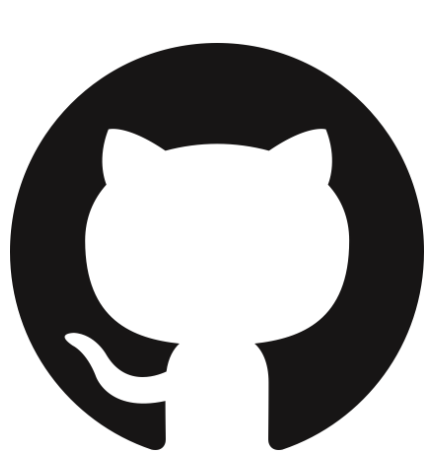
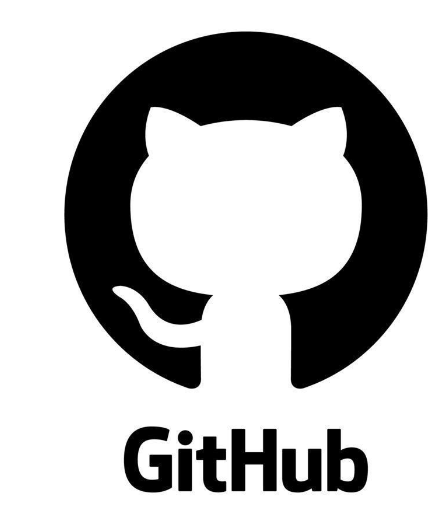
added bulma to JS page and homepage

diff --git a/jsInfo.html b/jsInfo.html
@@ -9,24 +9,57 @@
 <link rel="preconnect" href="https://fonts.gstatic.com" crossorigin>
 <link href="https://fonts.googleapis.com/css2?family=Poppins:ital,wght@0,100;0,200;0,300;0,400;0,500;0,600;0,700;0,800;0,900;1,100;1,200;1,300;1,400;1,500;1,600;1,700;1,800;1,900&display=swap" rel="stylesheet">
     <link rel="stylesheet" href="./assets/css/jsInfo.css">
+    <link rel="stylesheet" href="https://cdn.jsdelivr.net/npm/bulma@1.0.0/css/bulma-rtl.min.css">
     <title>Code Script Chum</title>
 </head>
 
 <body>
-    <div class="header">
-        <nav>
-            <h1>JavaScript<i class="fa-brands fa-js"></i></h1>
-            <ul>
-                <li><a href="#">Home</a></li>
-                <li><a href="#html"></a>HTML</li>
-                <li><a href="#css"></a>CSS</li>
-                <li><a href="#js"></a>JavaScript</li>
-
-            </ul>
-            <div class="gcse-search"></div>
-        </nav>
-    </div>
-    <section class="main">
+    <nav class="navbar is-warning" role="navigation" aria-label="main navigation">
+        <div class="navbar-brand">
+          <a class="navbar-item" href="">
+            <h1 class="title has-text-dark">JavaScript<i class="fa-brands fa-js"></i></h1>
+            
+          </a>
+      
+          
+        </div>
+      
+        <div id="navbarBasicExample" class="navbar-menu">
+          <div class="navbar-start">
+            
+                
+                <hr class="navbar-divider">
+                
+              </div>
+            </div>
+          </div>
+      
+          <div class="navbar-end">
+            <div class="navbar-item">
+                <a class="navbar-item has-background-warning">
+                    Home
+                  </a>
+            
+                  <a class="navbar-item has-background-warning">
+                    HTML
+                  </a>
+            
+                  
+                  <a class="navbar-item has-background-warning">
+                      CSS
+                  </a>
+            
+                    
+                  <a class="navbar-item has-background-warning">
+                        JavaScript
+                  </a>
+                  <div class="gcse-search"></div>
+              </div>
+            </div>
+          </div>
+        </div>
+      </nav>
+    <section class="main has-background-black has-text-white">
         <div class="subject">
             <h2>What is JavaScript</h2>
             <p id="define">JavaScript is a programming language that adds interactivity to your website. This happens in games, in the behavior of responses when buttons are pressed or with data entry on forms; with dynamic styling; with animation, etc. This article helps you get started with JavaScript and furthers your understanding of what is possible.
@@ -43,7 +76,7 @@
 
             
         </div>
-        <div class="resources">
+        <div class="resources has-background-black has-text-white">
             <h2>Resources</h2>
             <a id="codecademy" href="https://www.codecademy.com/catalog/language/javascript?g_network=g&g_productchannel=&g_adid=624951457597&g_locinterest=&g_keyword=javascript%20codecademy&g_acctid=243-039-7011&g_adtype=&g_keywordid=kwd-320553373671&g_ifcreative=&g_campaign=account&g_locphysical=9053011&g_adgroupid=128133969988&g_productid=&g_source={sourceid}&g_merchantid=&g_placement=&g_partition=&g_campaignid=1955172604&g_ifproduct=&utm_id=t_kwd-320553373671:ag_128133969988:cp_1955172604:n_g:d_c&utm_source=google&utm_medium=paid-search&utm_term=javascript%20codecademy&utm_campaign=US_Brand_Exact&utm_content=624951457597&g_adtype=search&g_acctid=243-039-7011&gad_source=1&gclid=CjwKCAjwoPOwBhAeEiwAJuXRh0FBEE7tAhJBHI1ho4i6YMIoSmxdvKVT4xJRQJPb-ZK9xknfXDbq5RoCjugQAvD_BwE" alt="codecademy">
                 <!-- <h3>Codecademy</h3> -->
@@ -51,7 +84,7 @@
             </a>
             <a id="github" href="https://github.com/topics/javascript" alt="github">
                 <!-- <h3>Github</h3> -->
-                
+                <img src="../code-script-chum/assets/images/github.png" alt="github">
             </a>
             <a id="mdn" href="https://developer.mozilla.org/en-US/docs/Web/JavaScript" alt="mdn-web-docs">
                 <!-- <h3>MDN Web Docs</h3> -->
@@ -63,10 +96,10 @@
             </a>
         </div> 
         <section id="examples">
-            <div class="banner">
+            <div class="banner has-background-black has-text-white">
                 <h3>Examples</h3>
             </div>
-            <div class="ex-container" >
+            <div class="ex-container has-background-black" >
                 <a class="js-robot" href="https://lab.reaal.me/jsrobot/#level=1&language=en" alt="js robot game"> <div>
                 <h4>JavaScript Robot</h4>
                 </div>

diff --git a/index.html b/index.html
@@ -7,25 +7,59 @@
     <link rel="preconnect" href="https://fonts.googleapis.com">
 <link href="https://fonts.googleapis.com/css2?family=Poppins:ital,wght@0,100;0,200;0,300;0,400;0,500;0,600;0,700;0,800;0,900;1,100;1,200;1,300;1,400;1,500;1,600;1,700;1,800;1,900&display=swap" rel="stylesheet">
     <link rel="stylesheet" href="./assets/css/index.css">
+    <link rel="stylesheet" href="https://cdn.jsdelivr.net/npm/bulma@1.0.0/css/bulma-rtl.min.css">
     <title>Code Script Chum</title>
 </head>
 
 <body>
-    <div class="header">
-        <nav>
-			<img src="assets/images/main-icon.png" alt="Main Icon"
+    <nav class="navbar is-success" role="navigation" aria-label="main navigation">
+        <div class="navbar-brand">
+          <a class="navbar-item" href="">
+            <img src="assets/images/main-icon.png" alt="Main Icon"
 				width="336" 
      			height="100">
             
-            <ul>
-                <li><a href="htmlInfo.html">HTML</a></li>
-                <li><a href="cssInfo.html">CSS</a></li>
-                <li><a href="jsInfo.html">JavaScript</a></li>
-            </ul>
-            <div class="gcse-search"></div>
-        </nav>
-    </div>
-    <section class="main">
+          </a>
+      
+          
+        </div>
+      
+        <div id="navbarBasicExample" class="navbar-menu">
+          <div class="navbar-start">
+            
+                
+                <hr class="navbar-divider">
+                
+              </div>
+            </div>
+          </div>
+      
+          <div class="navbar-end">
+            <div class="navbar-item">
+                <a class="navbar-item has-background-success">
+                    Home
+                  </a>
+            
+                  <a class="navbar-item has-background-success">
+                    HTML
+                  </a>
+            
+                  
+                  <a class="navbar-item has-background-success">
+                      CSS
+                  </a>
+            
+                    
+                  <a class="navbar-item has-background-success">
+                        JavaScript
+                  </a>
+                  <div class="gcse-search"></div>
+              </div>
+            </div>
+          </div>
+        </div>
+      </nav>
+    <section class="main has-background-black has-text-white">
         <div class="subject">
             <img src="assets/images/logo.png" alt="Main Icon"
 				width="490" 

diff --git a/assets/css/cssInfo.css b/assets/css/cssInfo.css
@@ -11,16 +11,17 @@ i{
     font-size: 110px;
 }
 
+
 .main {
     background-color: black;
     padding: 10px;
-    height:100vh;
+    height:auto;
 
 }
 .subject{
     border: 3px solid black;
     width: 50%;
-    font-size: 25px;
+    font-size: 20px;
 }
 section .subject #define{
     margin-left: 10px;
@@ -91,7 +92,7 @@ section{
 
  #github img{
     max-width: 20%;
-    max-height: 50%;
+    max-height: auto;
  }
 
  #mdn img{
@@ -101,7 +102,7 @@ section{
 
  #w3 img {
     max-width: 20%;
-    max-height: 50%;
+    max-height: auto;
  }
 
  section #examples{
@@ -143,7 +144,7 @@ section{
     background-color: transparent;
     font-weight: 800;
     font-size: 30px;
-    z-index: 100;
+    
 }
 
 .ex-container {
@@ -164,7 +165,7 @@ h4{
     background-image:url(../images/tic-tac-toe\ css.png);
     background-repeat: no-repeat;
     background-size: cover;
-    /* background-position: center; */
+    
     
 }
 .w3-ex {
@@ -185,13 +186,15 @@ h4{
     .main {
         flex-direction: column;
         flex-wrap: wrap;
-        font-size: 50%;
+        font-size: auto;
     }
 }
 
 @media screen and (max-width:768px) {
     .resources{
         flex-direction: column;
+        flex-wrap: wrap;
+        font-size: auto;
         
     }
 }
@@ -199,6 +202,8 @@ h4{
 @media screen and (max-width:768px) {
     .examples{
         flex-direction: column;
+        flex-wrap: wrap;
+        font-size: auto;
     }
 }
     

diff --git a/assets/css/jsInfo.css b/assets/css/jsInfo.css
@@ -1,38 +1,17 @@
-*{
-    padding: 0;
-    margin: 0;
-    font-family: "poppins", sans-serif;
-    box-sizing: border-box;
-}
+@import "https://cdn.jsdelivr.net/npm/bulma@1.0.0/css/bulma.min.css";
 
-.header{
-    height: 25%;
-    width: 100%;
-    background-color: yellow;
-}
-h1 {
-    font-size: 70px;
-    font-style: italic;
-    text-shadow: 1px 1px 2px black;
+
+.title {
     
+    font-size: 100px;
+    font-style: italic;
+
 }
 i{
-    padding-left: 10px;
+padding: 20px;
+font-size: 110px;
 }
 
-nav{
-    display: flex;
-    align-items: center;
-    justify-content: space-between;
-    padding: 30px 4% 4% 4%
-}
-
-nav ul li{
-    display: inline-block;
-    text-decoration: none;
-    padding: 15px;
-
-}
 
 .main {
     background-color: beige;
@@ -44,6 +23,7 @@ nav ul li{
     border: 3px solid black;
     width: 50%;
     height:auto;
+    font-size: 20px;
     
 }
 
@@ -121,12 +101,14 @@ section{
 
  #github img{
     max-width: 20%;
-    max-height: 50%;
+    max-height: auto;
+    
  }
 
  #mdn img{
     max-width: 20%;
     max-height: auto;
+    
  }
 
  #w3 img {

diff --git a/assets/css/index.css b/assets/css/index.css
@@ -1,40 +1,6 @@
-*{
-    padding: 0;
-    margin: 0;
-    font-family: "Poppins", sans-serif;
-    box-sizing: border-box;
-}
+@import "https://cdn.jsdelivr.net/npm/bulma@1.0.0/css/bulma.min.css";
 
-.header{
-    height: 100px;
-    width: 100%;
-    background-color: white;
-}
 
-h1 {
-    font-size: 60px;
-    font-style: italic;
-    text-shadow: 1px 1px 2px black;
-}
-
-i{
-    font-size: 100px;
-}
-
-nav{
-    top: 50px;
-    display: flex;
-    align-items: center;
-    justify-content: space-between;
-    padding: 0% 4% 4% 4%;
-}
-
-nav ul li{
-    display: inline-block;
-    text-decoration: none;
-    padding: 15px;
-
-}
 
 .main {
     background-color: beige;

diff --git a/assets/css/htmlInfo.css b/assets/css/htmlInfo.css
@@ -36,6 +36,7 @@ h2{
     width: 50%;
     height: 50%;
     font-family: "Poppins", sans-serif;
+    font-size: 20px;
 }
 
 section .subject #define{
@@ -92,7 +93,7 @@ section{
 
  #github img{
     max-width: 20%;
-    max-height: 50%;
+    max-height: auto;
  }
 
  #mdn img{

diff --git a/htmlInfo.html b/htmlInfo.html
@@ -117,7 +117,7 @@
 
 
 
-<footer class="footer has-background-black has-text-white">
+<footer class="footer">
     Bonus Content
     <!-- Trigger/Open The Modal -->
     <button id="myBtn">Enjoying this website?</button>
